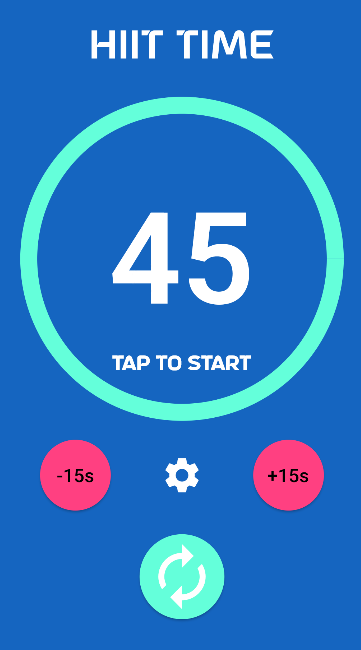
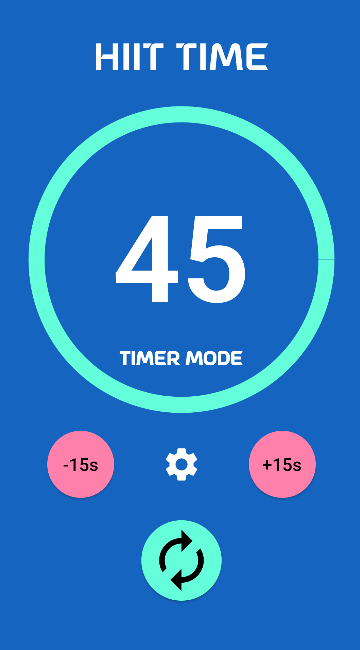
Color Updates

diff --git a/lib/Config/settings.dart b/lib/Config/settings.dart
@@ -291,9 +291,9 @@ String getThemeFromProductId(String productId) {
 /// In-app Purchase Variables
 final Map<String, bool> themesPurchasedMapDefault = {
   'Default': true,
-  'BlueJay': false,
-  'Bubblegum': false,
-  'Pumpkin': false
+  'BlueJay': true,
+  'Bubblegum': true,
+  'Pumpkin': true
 };
 Map<String, bool> themesPurchasedMap = themesPurchasedMapDefault;
 var availableProducts = [];
@@ -344,20 +344,20 @@ void setThemeDefault(){
 
 void setThemeBlueJay() {
   textColorOverwrite = true;
-  alternateColorOverwrite = false;
+  alternateColorOverwrite = true;
 
   // Dark mode
   primaryColorDarkMode = Colors.white;
   secondaryColorDarkMode = Colors.blue.shade800;
   primaryAccentColorDarkMode = Colors.tealAccent;
-  secondaryAccentColorDarkMode = Colors.pinkAccent;
+  secondaryAccentColorDarkMode = Colors.pinkAccent.shade100;
   runningClockColorDarkMode = secondaryAccentColorDarkMode;
 
   // Light mode
   primaryColorLightMode = Colors.black;
-  secondaryColorLightMode = Colors.blue.shade200;
-  primaryAccentColorLightMode = Colors.teal;
-  secondaryAccentColorLightMode = Colors.pink.shade200;
+  secondaryColorLightMode = Colors.blueAccent.shade100;
+  primaryAccentColorLightMode = Colors.blue.shade600;
+  secondaryAccentColorLightMode = Colors.pinkAccent.shade100;
   runningClockColorLightMode = secondaryAccentColorLightMode;
 }
 
